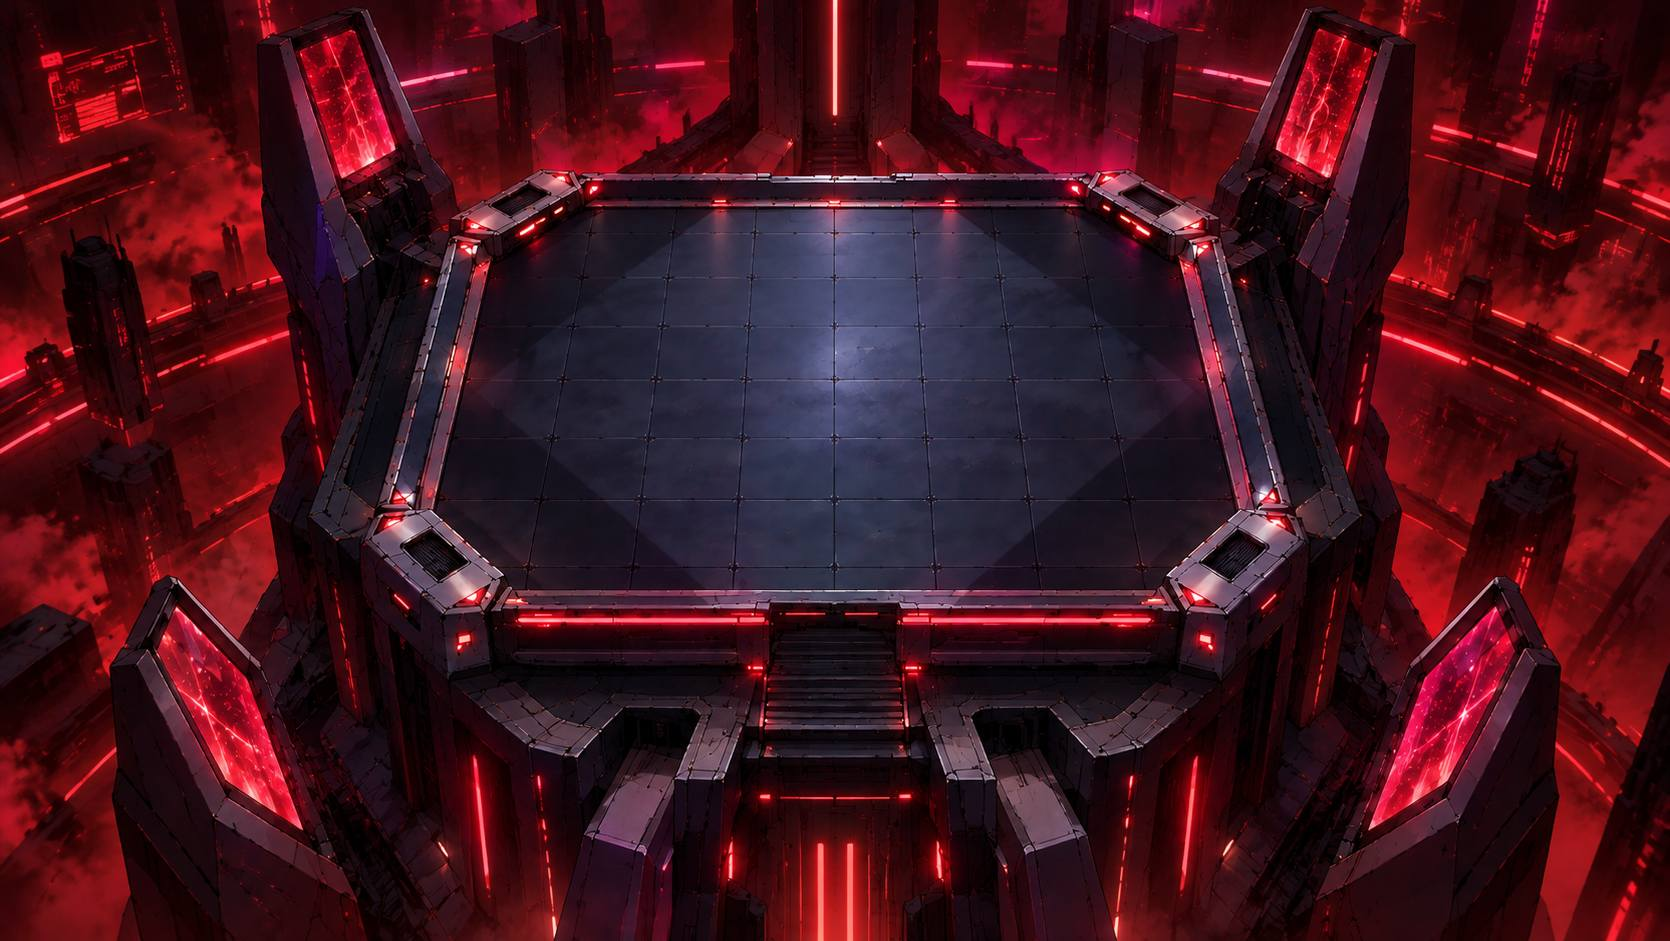
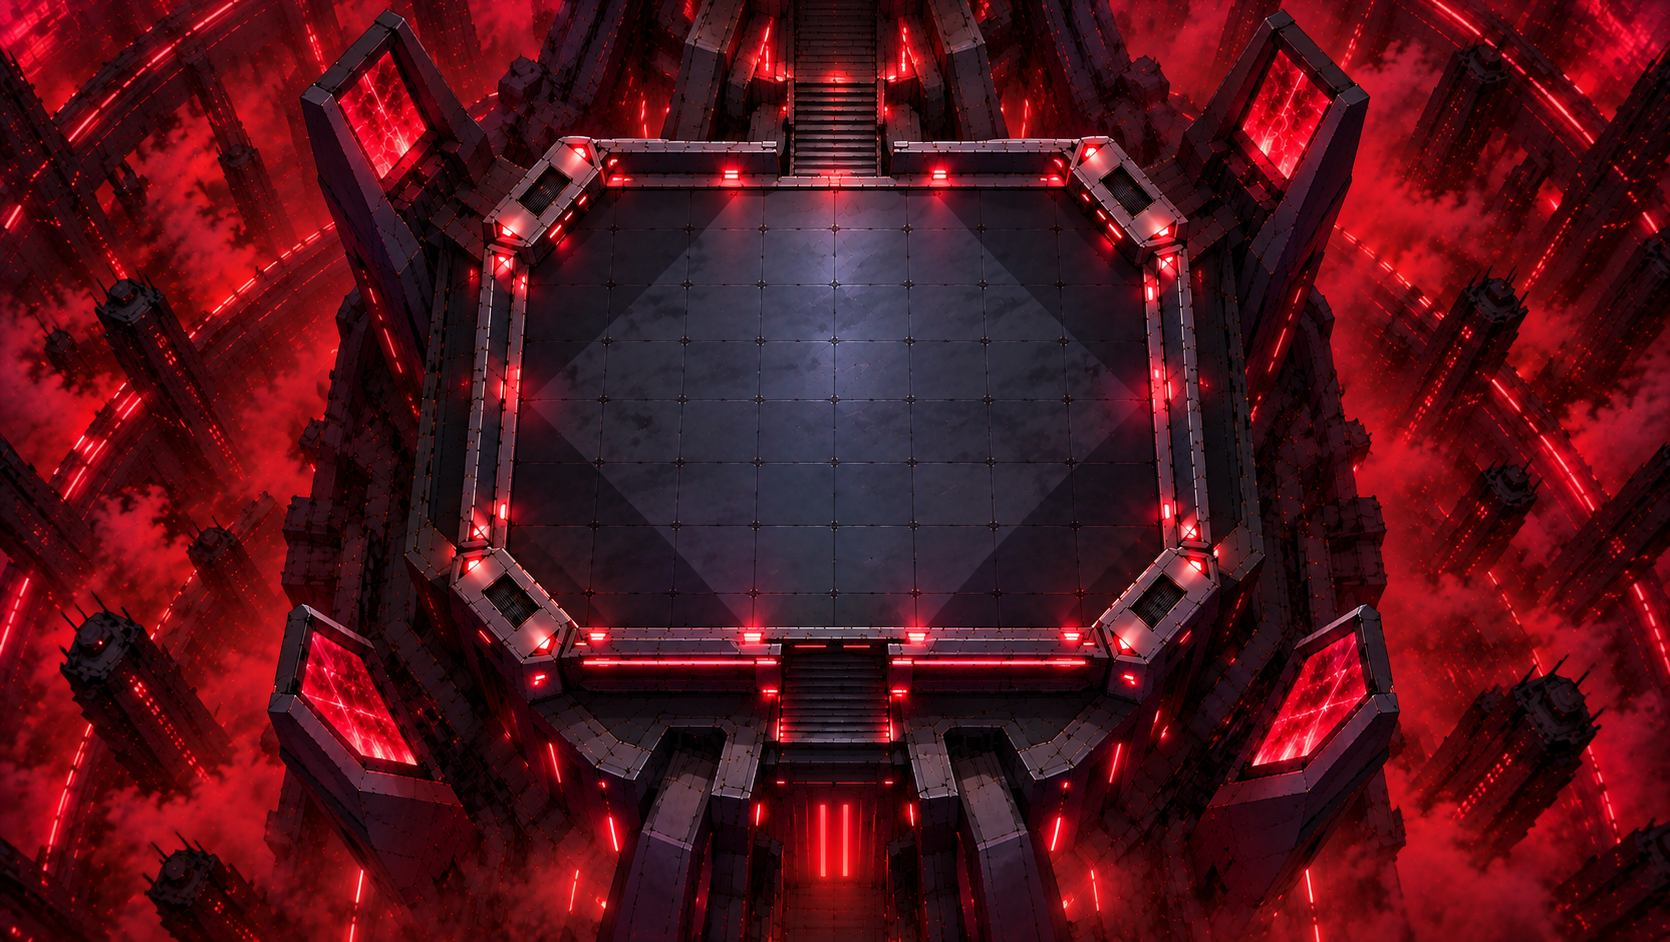
Nuova immagine per il campo Mondo Virtuale - Arena di Gozaburo
Sostituita dal PNG fornito dall'utente, convertito in JPG: 1670x942, qualita' 90 per desktop (355 KB) e 78 per mobile (230 KB), stesse misure dei file precedenti. Nessun codice toccato: il nome del file resta lo stesso. sw.js v103.

diff --git a/sw.js b/sw.js
@@ -180,6 +180,8 @@
 // riempire lo schermo, e si riadatta alla rotazione. Nessun file nuovo.
 // v60: Storia — ritorno alla mappa della campagna a fine duello, tappe
 // rigiocabili, conferma prima di ricominciare. Nessun file nuovo.
+// v103: nuova immagine del campo Mondo Virtuale - Arena di Gozaburo
+// (stesso nome di file).
 // v102: nuova immagine del campo Dirigibile KaibaCorp (stesso nome di
 // file). Le immagini sono cache-first: senza questo bump chi l'aveva già
 // in cache continuerebbe a vedere la vecchia.
@@ -323,7 +325,7 @@
 // quindi cache-first). Le altre campagne puntano già al nome della
 // propria, che ancora non esiste: il bump serve perché chi avesse in
 // cache un 404 a quei percorsi non se lo porti dietro.
-const CACHE_NAME = 'ygo-duel-arena-v102';
+const CACHE_NAME = 'ygo-duel-arena-v103';
 
 // L'intera "app shell": tutte le pagine HTML + tutto il codice JS/CSS che
 // le fa funzionare. Leggero (pochi MB in tutto), quindi si può precaricare
